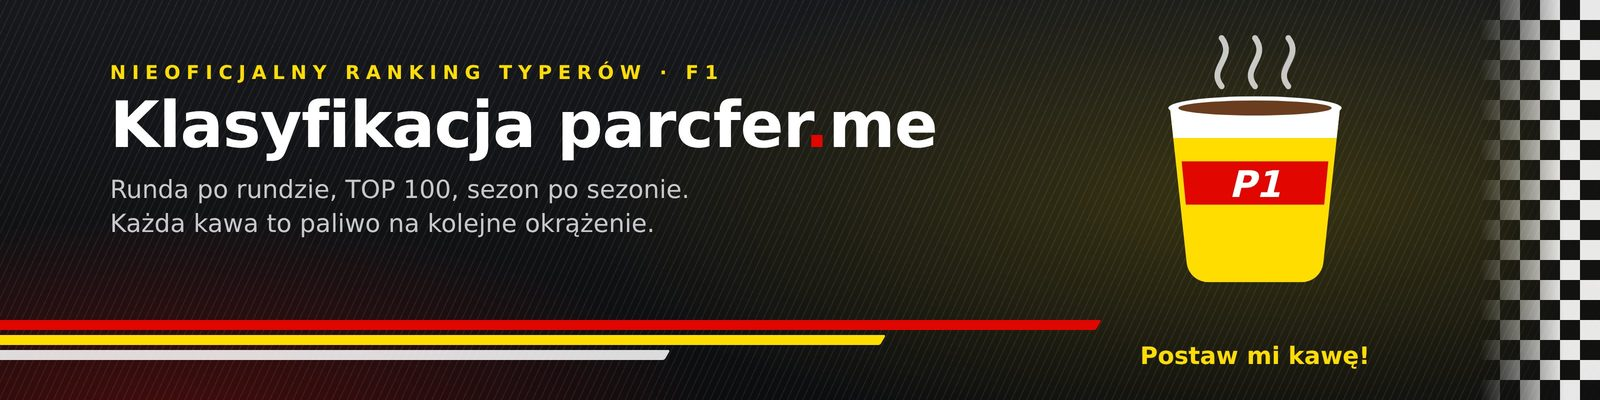
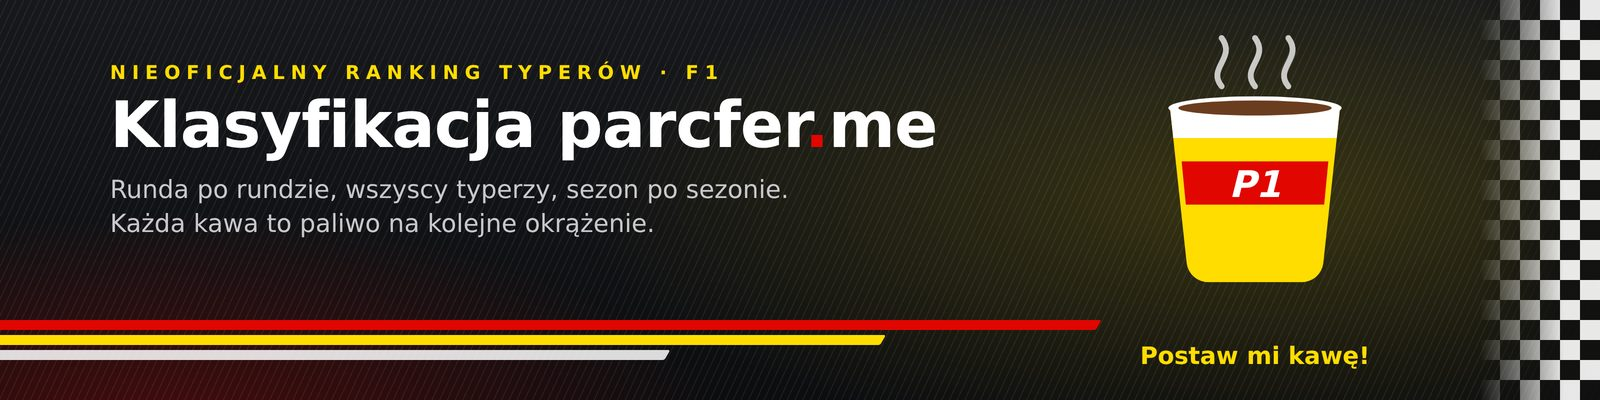
Nowy baner i obrazek podglądu bez „TOP 100”

Changed region(s): [[0.2188, 0.45, 0.5, 0.51]]

diff --git a/index.html b/index.html
@@ -55,8 +55,8 @@
   </a>
 
   <a class="banner" data-goatcounter-click="buymeacoffee-banner" data-goatcounter-title="Klik: baner Buy me a coffee" href="https://www.buymeacoffee.com/patrykw" target="_blank" rel="noopener"><picture>
-    <source type="image/webp" srcset="assets/banner-800.webp 800w, assets/banner-1600.webp 1600w, assets/banner-3200.webp 3200w" sizes="(max-width: 1100px) calc(100vw - 32px), 1068px">
-    <img src="assets/banner.jpg" srcset="assets/banner-800.jpg 800w, assets/banner-1600.jpg 1600w, assets/banner.jpg 3200w" sizes="(max-width: 1100px) calc(100vw - 32px), 1068px" width="3200" height="800" alt="Klasyfikacja parcfer.me — postaw mi kawę" fetchpriority="high">
+    <source type="image/webp" srcset="assets/banner-800.webp?v=2 800w, assets/banner-1600.webp?v=2 1600w, assets/banner-3200.webp?v=2 3200w" sizes="(max-width: 1100px) calc(100vw - 32px), 1068px">
+    <img src="assets/banner.jpg?v=2" srcset="assets/banner-800.jpg?v=2 800w, assets/banner-1600.jpg?v=2 1600w, assets/banner.jpg?v=2 3200w" sizes="(max-width: 1100px) calc(100vw - 32px), 1068px" width="3200" height="800" alt="Klasyfikacja parcfer.me — postaw mi kawę" fetchpriority="high">
   </picture></a>
 
   <section class="hero">

diff --git a/CHANGELOG.md b/CHANGELOG.md
@@ -21,6 +21,7 @@ Format: każda wersja to nagłówek `## vX.Y.Z (RRRR-MM-DD) — tytuł`. Workflo
 - Ikona strony i dodawanie do ekranu głównego telefonu; obsługa klawiaturą (Tab / Enter).
 - Lżejszy baner — na telefonie ok. 20–60 KB zamiast 360 KB.
 - Kolor medalu na podium wg miejsca (remis „2=” — oba srebrne).
+- Nowy baner i obrazek podglądu linku — „wszyscy typerzy” zamiast „TOP 100”.
 
 ### Pod spodem
 - Style i skrypt w osobnych plikach (`css/style.css`, `js/app.js`).
